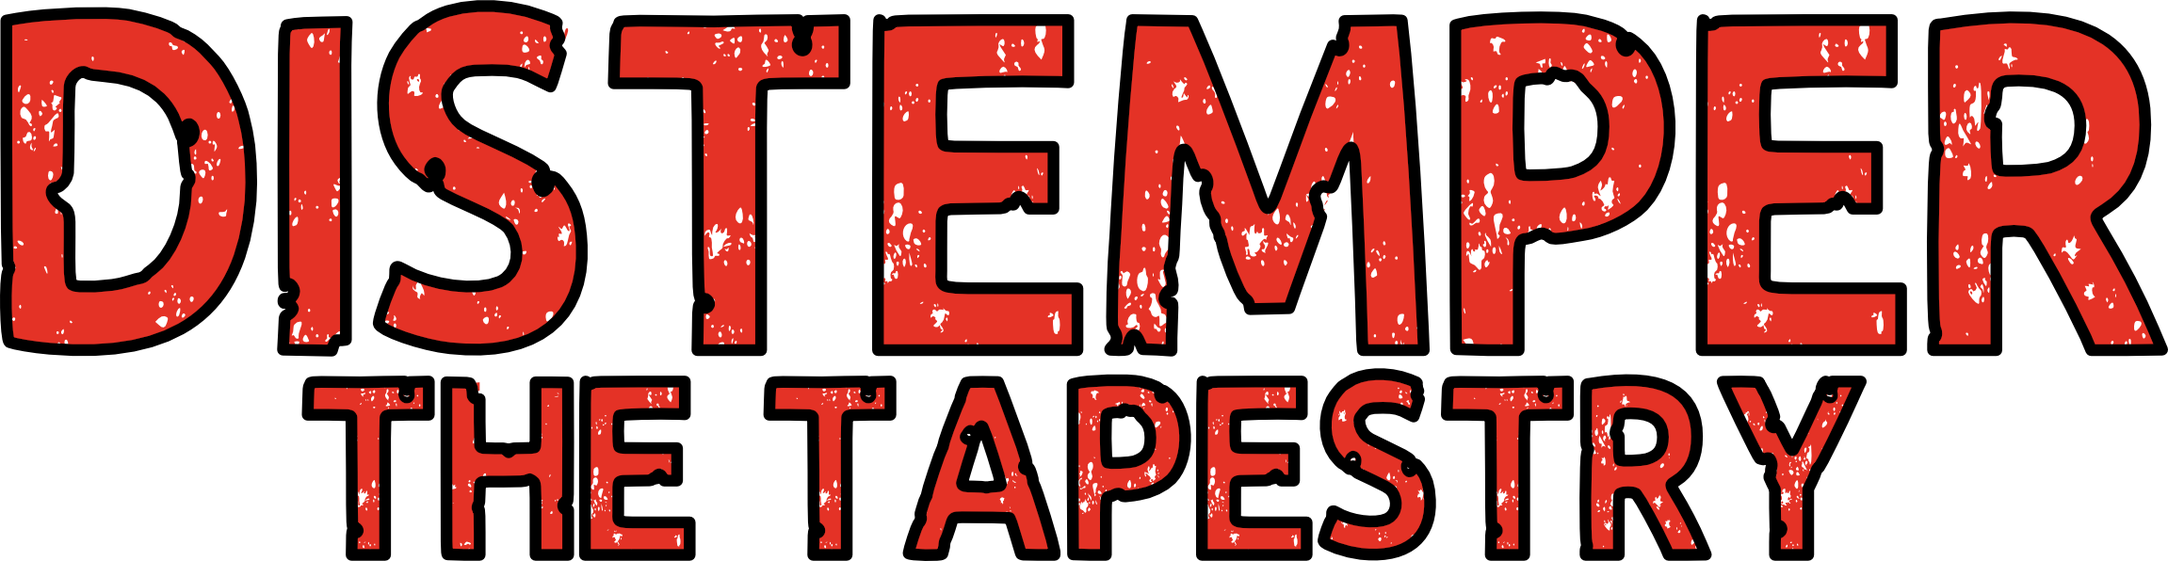
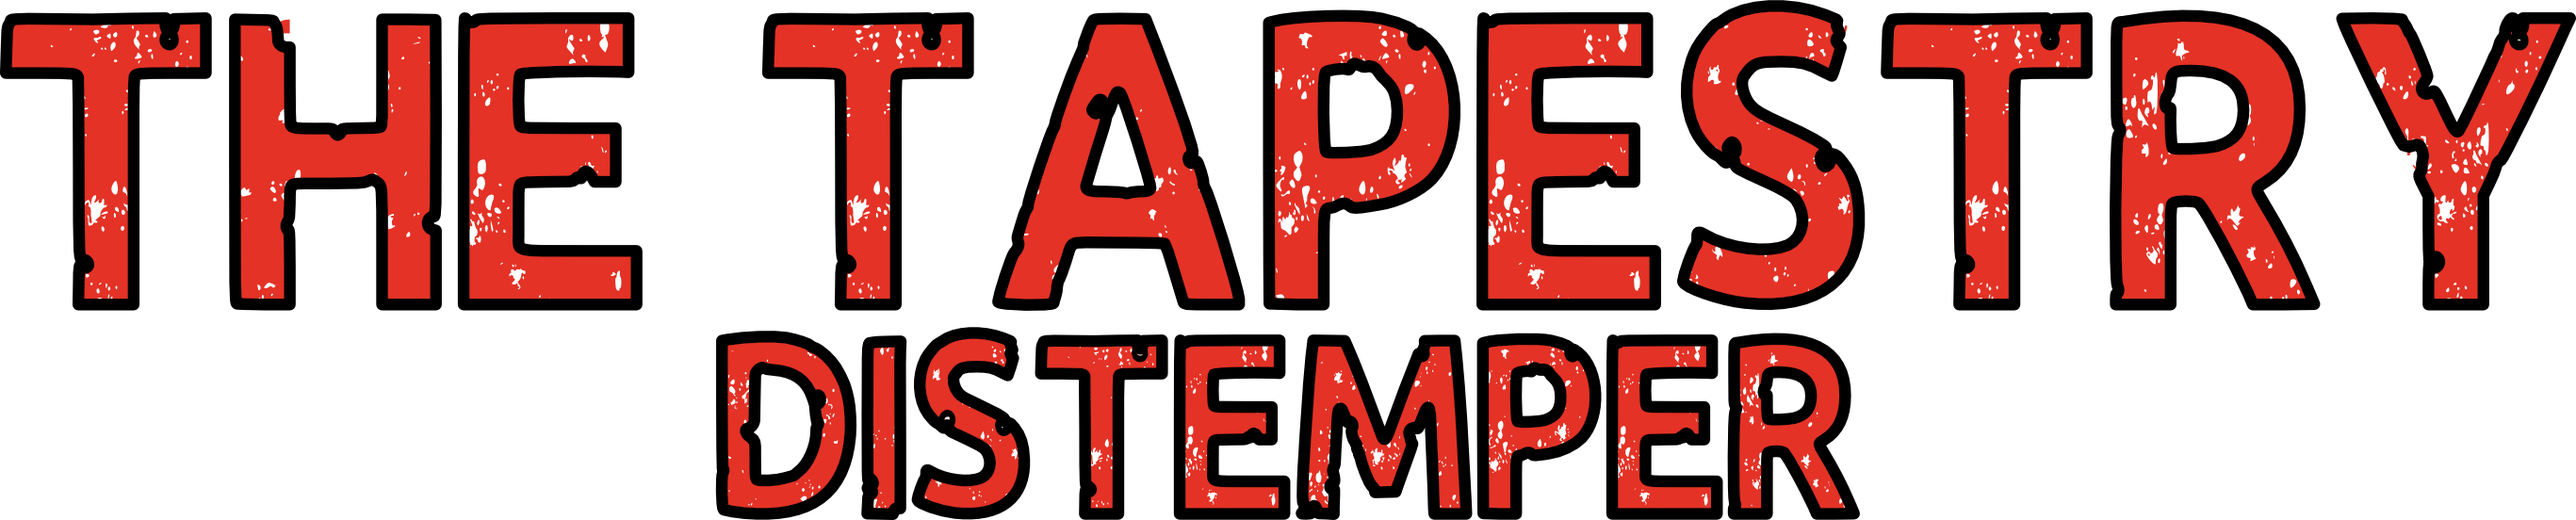
landing: brighten property taglines, let the buttons fit the longer copy
Tagline colour --muted -> --ink (roughly 5:1 to 13:1 on the panel).

The rewritten Distemper/Displaced taglines run to four lines, which the shared
--prop-logo-h cap was clipping (needed 96px, showed 92). The cap now applies to
the logo only; the button grows to fit its text. New Tapestry wordmark.

diff --git a/app/page.tsx b/app/page.tsx
@@ -32,21 +32,21 @@ const PROPERTIES: Property[] = [
   {
     key: "table",
     name: "The Table",
-    tagline: "Utilizing the Xero Sum Games SRD, The Table supports most genres but works best for gritty, hardboiled stories. Always free.",
+    tagline: "Using the Xero Sum Games SRD, The Table supports most genres but works best for gritty, hardboiled stories. Always free.",
     href: "/table",
     external: false,
   },
   {
     key: "tapestry",
     name: "The Tapestry",
-    tagline: "For Distemper — the post-apocalyptic tabletop roleplaying game.",
+    tagline: "Designed to support Distemper, a post-apocalyptic tabletop roleplaying game set in a world where 90% of humanity have died out in less than a year.",
     href: "https://thetapestry.distemperverse.com",
     external: true,
   },
   {
     key: "tableau",
     name: "The Tableau",
-    tagline: "For Displaced — the hard science-fiction tabletop roleplaying game.",
+    tagline: "Designed to support Displaced, a hard science-fiction tabletop roleplaying game set 130 years in the future as mankind starts to colonize other planets.",
     href: "https://thetableau.xerosumgames.com",
     external: true,
   },
@@ -89,7 +89,6 @@ export default function Home() {
         <p className="tagline">
           Three virtual tabletops (VTTs) and a collection of character generators for games I play.
         </p>
-        <p className="tagline tagline--pick">Pick a table.</p>
       </header>
 
       <nav className="properties" aria-label="Games">

diff --git a/app/globals.css b/app/globals.css
@@ -125,8 +125,8 @@ body {
 /* With a logo dropped in at public/prop-<key>.*, the wordmark REPLACES the text
    name (each logo already spells the property out) and sits on the left, with
    the tagline to its right. Without one the button keeps the plain text layout
-   above. --prop-logo-h is shared by both sides so the text can never make the
-   button taller than the logo it sits beside. */
+   above. --prop-logo-h caps the logo so it never stretches to match a long
+   tagline; the button itself grows to fit the text rather than clipping it. */
 .prop--logo {
   --prop-logo-h: clamp(56px, 10vw, 92px);
   flex-direction: row;
@@ -143,14 +143,8 @@ body {
   max-width: 44%;
 }
 
-.prop--logo .prop-text {
-  max-height: var(--prop-logo-h);
-  overflow: hidden;
-}
-
-/* Too narrow for a side-by-side: the logo shrinks to ~30px and the height cap
-   swallows most of the tagline (measured: The Table needs 168px, gets 56). Stack
-   and release the cap instead of silently clipping the sentence. */
+/* Too narrow for a side-by-side: the logo shrinks to ~30px and the tagline is
+   left in a ~150px gutter. Stack instead. */
 @media (max-width: 620px) {
   .prop--logo {
     flex-direction: column;
@@ -159,10 +153,6 @@ body {
   }
   .prop-logo {
     max-width: 78%;
-  }
-  .prop--logo .prop-text {
-    max-height: none;
-    overflow: visible;
   }
 }
 
@@ -194,7 +184,7 @@ body {
 }
 
 .prop-tagline {
-  color: var(--muted);
+  color: var(--ink);
   font-size: 1rem;
 }
 
